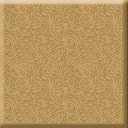
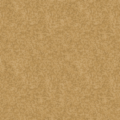
-

diff --git a/app/client/js/game/game-floor.js b/app/client/js/game/game-floor.js
@@ -15,8 +15,8 @@
  * along with this program.  If not, see <http://www.gnu.org/licenses/>.
  */
 
-define(['config', 'logger', 'underscore', 'dataTypes', 'eventDispatcher', 'pixi', 'noise', 'gameApp', 'gameTile'],
-    function (config, Logger, _, dataTypes, dispatcher, pixi, noise, gameApp, GameTile) {
+define(['config', 'logger', 'underscore', 'dataTypes', 'eventDispatcher', 'pixi', 'noise', 'gameApp', 'worldGenerator', 'gameTile'],
+    function (config, Logger, _, dataTypes, dispatcher, pixi, noise, gameApp, worldGenerator, GameTile) {
 
         var logger = Logger.getLogger('gameFloor');
         logger.setLevel(config.logger.gameFloor || 0);
@@ -73,8 +73,8 @@ define(['config', 'logger', 'underscore', 'dataTypes', 'eventDispatcher', 'pixi'
                         screen = gameApp.screen;
 
                     // count tiles needed
-                    var nTilesWidth = Math.round(screen.width / 2 / tileSize / scale ),
-                        nTilesHeight = Math.round(screen.height / 2 / tileSize / scale );
+                    var nTilesWidth = Math.round(screen.width / 2 / tileSize / scale),
+                        nTilesHeight = Math.round(screen.height / 2 / tileSize / scale);
 
                     // center offset
                     var tilesOffsetX = Math.round(screen.playerOffset.x / tileSize),
@@ -102,11 +102,10 @@ define(['config', 'logger', 'underscore', 'dataTypes', 'eventDispatcher', 'pixi'
                         _.each(rows, function (row) {
                             var y = row._y;
                             if (y < ly || y > ry) {
-                                logger.info('remove row', y);
                                 self.removeChild(row);
                                 row.destroy();
                                 minY = self.getChildAt(0)._y;
-                            }else{
+                            } else {
                                 nRows[y] = row;
                                 minY = Math.min(minY, y);
                                 maxY = Math.max(maxY, y);
@@ -117,7 +116,6 @@ define(['config', 'logger', 'underscore', 'dataTypes', 'eventDispatcher', 'pixi'
 
                     } else {
                         // create initial row
-                        logger.info('GameFloor::tick: create initial row at ', ly);
                         minY = maxY = ly;
                         row = new pixi.Container();
                         row._y = ly;
@@ -131,7 +129,7 @@ define(['config', 'logger', 'underscore', 'dataTypes', 'eventDispatcher', 'pixi'
                         for (var y = ly; y <= ry; y++) {
                             id = coord(x, y);
                             if (!tiles[id]) {
-                                tile = drawTile(x, y);
+                                tile = new GameTile(worldGenerator.tile(x, y));
                                 nTiles[id] = tile;
                                 addTile(x, y, tile);
                             } else {
@@ -147,28 +145,18 @@ define(['config', 'logger', 'underscore', 'dataTypes', 'eventDispatcher', 'pixi'
 
 
             function pushRow(y) {
-                try {
-                    logger.info('push row', y);
-                    var row = new pixi.Container();
-                    row._y = y;
-                    rows[y] = row;
-                    self.addChild(row);
-                    return row;
-                } catch (e) {
-                    logger.error(e);
-                }
+                var row = new pixi.Container();
+                row._y = y;
+                rows[y] = row;
+                self.addChild(row);
+                return row;
             }
 
             function unshiftRow(y) {
-                try {
-                    logger.info('unshift row', y);
-                    var childs = self.removeChildren(),
-                        row = pushRow(y);
-                    for (var i = 0; i < childs.length; i++) {
-                        self.addChild(childs[i]);
-                    }
-                } catch (e) {
-                    logger.error(e);
+                var childs = self.removeChildren(),
+                    row = pushRow(y);
+                for (var i = 0; i < childs.length; i++) {
+                    self.addChild(childs[i]);
                 }
             }
 
@@ -176,24 +164,20 @@ define(['config', 'logger', 'underscore', 'dataTypes', 'eventDispatcher', 'pixi'
             function addTile(x, y, tile) {
                 var i;
                 if (y < minY) {
-                    for(i = minY - 1; i >= y; i --){
+                    for (i = minY - 1; i >= y; i--) {
                         unshiftRow(i);
                     }
                     minY = y;
                 }
 
                 if (y > maxY) {
-                    for(i = maxY + 1; i <= y; i++){
+                    for (i = maxY + 1; i <= y; i++) {
                         pushRow(i);
                     }
                     maxY = y;
                 }
-                try {
-                    tile.setTransform(x * tileSize, y * tileSize);
-                    rows[y].addChild(tile);
-                } catch (e) {
-                    logger.error(e);
-                }
+                tile.setTransform(x * tileSize, y * tileSize);
+                rows[y].addChild(tile);
             }
 
 
@@ -217,9 +201,6 @@ define(['config', 'logger', 'underscore', 'dataTypes', 'eventDispatcher', 'pixi'
                 return (1 + value) * 1.1 * 128;
             }
 
-            function scaleNoise(s) {
-                return s * 5;
-            }
 
         }
 

diff --git a/app/client/js/game/world-generator.js b/app/client/js/game/world-generator.js
@@ -1,0 +1,67 @@
+/*
+ * Copyright (C) 06.01.17 Stefan Brinkmann <steffomix@gmail.com>
+ *
+ * This program is free software: you can redistribute it and/or modify
+ * it under the terms of the GNU General Public License as published by
+ * the Free Software Foundation, either version 3 of the License, or
+ * (at your option) any later version.
+ *
+ * This program is distributed in the hope that it will be useful,
+ * but WITHOUT ANY WARRANTY; without even the implied warranty of
+ * MERCHANTABILITY or FITNESS FOR A PARTICULAR PURPOSE.  See the
+ * GNU General Public License for more details.
+ *
+ * You should have received a copy of the GNU General Public License
+ * along with this program.  If not, see <http://www.gnu.org/licenses/>.
+ */
+
+define(['config', 'logger', 'noise'],
+    function (config, Logger, noise) {
+
+        var instance,
+            conf = config.game.worldGenerator,
+            scale = conf.scale,
+            noiseRanges = conf.noiseRanges,
+            textures = conf.textures,
+            logger = Logger.getLogger('worldGenerator');
+        logger.setLevel(config.logger.worldGenerator || 0);
+
+        function scaleNoise(s) {
+            return s * scale;
+        }
+
+        function calcNoise(x, y, s) {
+            var value = Math.min(Infinity, Math.max(-Infinity, noise.simplex2(x / scaleNoise(s), y / scaleNoise(s), 0)));
+            return (1 + value) * 1.1 * 128;
+        }
+
+        function WorldGenerator() {
+
+            this.tile = function(x, y) {
+                var value = calcNoise(x, y, 10) / 2;
+                value += calcNoise(y, x, 5) / 4;
+                value += calcNoise(x, y, 2.5) / 8;
+                value += calcNoise(y, x, 1) / 8;
+                value = Math.min(255, value);
+
+                for (var i = 0; i < noiseRanges.length - 1; i++) {
+                    if (value >= noiseRanges[i] && value < noiseRanges[i + 1]) {
+                        return textures[i];
+                    }
+                }
+                logger.error('GameFloor::drawTile not in Range', value, noiseRanges);
+            };
+
+
+        }
+
+        function getInstance() {
+            if (!instance) {
+                instance = new WorldGenerator();
+            }
+            return instance;
+        }
+
+        return getInstance();
+
+    });

diff --git a/app/client/js/main.js b/app/client/js/main.js
@@ -37,14 +37,34 @@
         },
         logger: {},
         game: {
-            fps: 30, // game calculations and pixi render per second
+            fps: 35, // game calculations and pixi render per second
             tiles: {
-                size: 128, // tile size in px
+                size: 120, // tile size in px
                 scale: .5// scale tiles
             },
             chunks: {
-                size: 5, // draw tiles per chunk: 5 = 5*5 tiles
-                draw: 2 // visible chunks: 1 = 3*3 chunks, 2 = 5*5 chunks ...
+                size: 5 // draw tiles per chunk: 5 = 5*5 tiles
+            },
+            worldGenerator: {
+                scale: 5,
+                noiseRanges: [
+                    0,
+                    100, // Water
+                    115, // sand
+                    160, // grass
+                    190, // wood
+                    220, // stone
+                    256 // snow
+                ],
+                // textures for world generator
+                textures: [
+                    'water',
+                    'sand',
+                    'grass',
+                    'wood',
+                    'stone',
+                    'snow'
+                ]
             }
         }
 
@@ -96,6 +116,7 @@
 
         // game
         ['gameApp', 'game/game-app', 0],
+        ['worldGenerator', 'game/world-generator', 0],
         //['gameFloorManager', 'game/game-floor-manager', 0],
         ['gameFloor', 'game/game-floor', 0],
         ['gameTile', 'game/game-tile', 0],
@@ -143,8 +164,6 @@
     });
 
 
-
-
     var groups = ['lib', 'game', 'pixilayer', 'interface'],
         preloadModules = ['backbone', 'jquery', 'eventDispatcher'],
         p;
@@ -162,7 +181,7 @@
 
     console.log('Preload modules: ', preloadModules);
 
-    define('rottingUniverse', preloadModules, function(backbone, $, dispatcher){
+    define('rottingUniverse', preloadModules, function (backbone, $, dispatcher) {
         backbone.$ = $;
         console.log('Trigger game initialize');
         dispatcher.game.initialize.claimTrigger('main.js')();

diff --git a/app/client/js/game/game-tile.js b/app/client/js/game/game-tile.js
@@ -29,7 +29,7 @@ define(['config', 'logger', 'pixi', 'dataTypes'],
             var sprite = new pixi.Sprite(pixi.Texture.fromImage('assets/tiles/' + texture+ '.png'));
             sprite.anchor.set(.5, .5);
             this.addChild(sprite);
-            sprite.scale.set(1, 1.1);
+            //sprite.scale.set(1, 1.1);
 
             this.gamePosition = dataTypes.gamePosition(this);
         }
